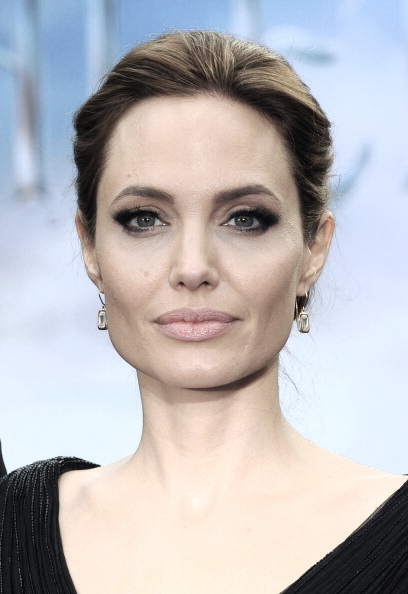
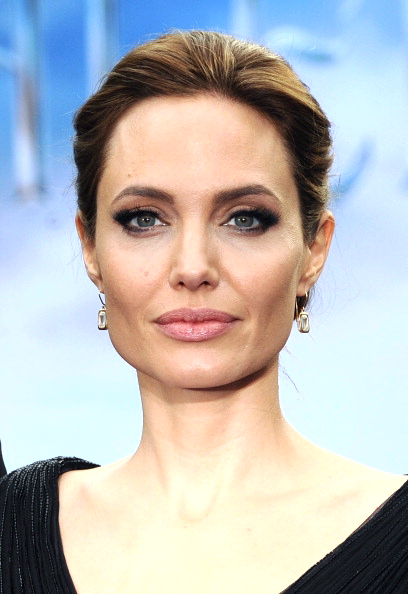
fixing highlight using opencv

Changed region(s): [[0.0, 0.0, 1.0, 0.7879], [0.1471, 0.7879, 0.1765, 0.9091], [0.8824, 0.2424, 0.9118, 0.2727]]

diff --git a/util/adjustment.ts b/util/adjustment.ts
@@ -119,6 +119,43 @@ static async changeAndSaveSaturationHSV(
   }
 }
 
+
+
+static async changeAndSaveHighlight(
+  inputImagePath: string,
+  outputImagePath: string,
+  value: number
+) {
+  if (value < -100 || value > 100) {
+    throw new Error("value value must be between -100 and 100");
+  }
+  try {
+    value /= 800
+    // Read the input image using Jimp
+    const image = await Jimp.read(inputImagePath);
+    const { data, width, height } = image.bitmap;
+    const imageData = new ImageData(new Uint8ClampedArray(data), width, height);
+    let src = cv.matFromImageData(imageData)
+    let labImage = new cv.Mat()
+    cv.cvtColor(src, labImage, cv.COLOR_BGR2Lab);
+    for (let i = 0; i < labImage.rows; i++) {
+      for (let j = 0; j < labImage.cols; j++) {
+        labImage.ucharPtr(i, j)[0] = Math.max(0, Math.min(255, labImage.ucharPtr(i, j)[0] * (1 + value)));
+      }
+    }
+    let dst = new cv.Mat();
+    cv.cvtColor(labImage, dst, cv.COLOR_Lab2BGR);
+    new Jimp({
+      width: dst.cols,
+      height: dst.rows,
+      data: Buffer.from(dst.data),
+    }).write(outputImagePath);
+    console.log(`Success`);
+  } catch (error) {
+    console.error("Error:", error);
+  }
+}
+
 //fixed
 // value from -100 to 100
 static async changeAndSaveExposure(
@@ -585,6 +622,15 @@ static async changeAndSaveGamma(
 }
 
 
+// ## Highlight
+// value from -100 to 100
+static calculateBrightness(r: number, g: number, b: number) {
+  //  Calculate brightness as the weighted sum of color channels
+  let brightness = 0.299 * r + 0.587 * g + 0.114 * b;
+  return brightness;
+}
+
+static clamp = (num: number, min: number, max: number) => Math.min(Math.max(num, min), max);
 
 static isWhite(r: number, g: number, b : number) {
   const treshold = 170;
@@ -947,52 +993,7 @@ static async changeAndSaveShadow(
   }
 }
 
-// ## Highlight
-// value from -100 to 100
-static calculateBrightness(r: number, g: number, b: number) {
-  //  Calculate brightness as the weighted sum of color channels
-  let brightness = 0.299 * r + 0.587 * g + 0.114 * b;
-  return brightness;
-}
 
-static clamp = (num: number, min: number, max: number) => Math.min(Math.max(num, min), max);
-
-static async changeAndSaveHighlight(
-  inputImagePath: string,
-  outputImagePath: string,
-  value: number
-) {
-  if (value < -50 || value > 50) {
-    throw new Error("value value must be between -100 and 100");
-  }
-  try {
-    // Read the input image using Jimp
-    const image = await Jimp.read(inputImagePath);
-    const maxFactor = 200;
-
-    for (let x = 0; x < image.bitmap.width; x++) {
-      for (let y = 0; y < image.bitmap.height; y++) {
-        const pixel = image.getPixelColor(x, y);
-        const color = Jimp.intToRGBA(pixel);
-        let { r, g, b, a } = color;
-        const brightness = Adjustment.calculateBrightness(r, g, b);
-        if (brightness > maxFactor) {
-          
-          r = Adjustment.clamp(r + value, 0, 255);
-          g = Adjustment.clamp(g + value, 0, 255);
-          b = Adjustment.clamp(b + value, 0, 255);
-          
-        }
-        const newColor = Jimp.rgbaToInt(r, g, b, a);
-        image.setPixelColor(newColor, x, y);
-      }
-    }
-    await image.writeAsync(outputImagePath);
-    console.log(`Success`);
-  } catch (error) {
-    console.error("Error:", error);
-  }
-}
 
 static isBlacks(r: number, g: number, b : number) {
   const treshold = 170;

diff --git a/main.ts b/main.ts
@@ -1,4 +1,4 @@
 import Adjustment from "./util/adjustment.ts";
-Adjustment.changeAndSaveSaturationHSV('img10.jpg', 'img10_edited.jpg', -100);
+Adjustment.changeAndSaveHighlight('img10.jpg', 'img10_edited.jpg', 100);
 
 // AdjustmentOpenCv.changeAndSaveBrightness('img10.jpg', 'img10_edited.jpg', 100)
